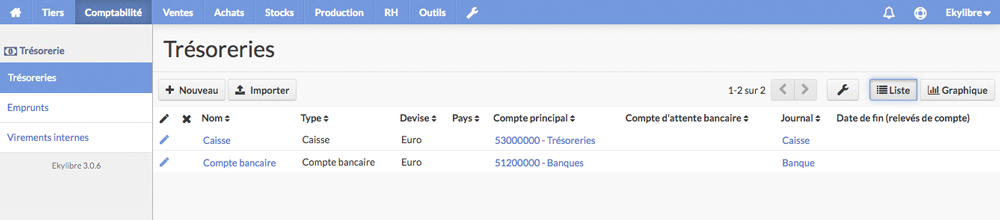
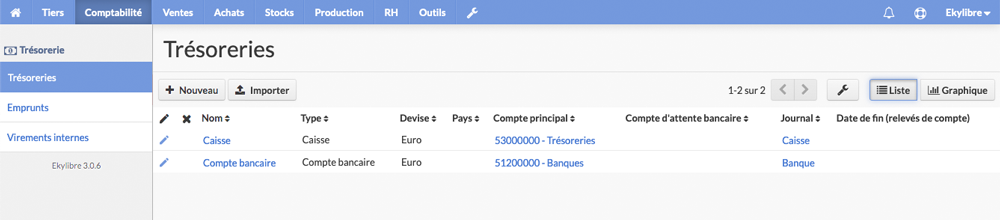
Trésorerie (upd) + nouveau PDF

diff --git a/content/fr/chapitre5.html b/content/fr/chapitre5.html
@@ -1808,10 +1808,15 @@
       </div>
       <div class="process-txt">
          <span class="titre-advice">Créez un compte bancaire</span>
-         <p>Cliquez sur le bouton “Nouveau”, puis sélectionnez le "Type" de trésorerie et remplissez tous les champs obligatoires signalés par une astérisque de couleur rouge avec les informations requises pour la définir correctement. Vous pouvez également partir du “Compte bancaire” déjà défini dans l'application et le modifier en cliquant sur le crayon<img src="../images/commun/crayon.svg" alt="Crayon modification" height="20" class="align-icone icone-marge-gauche icone-marge-droite">à gauche de son intitulé dans la liste des trésoreries.</p>
+		 <p>Cliquez sur le bouton “Nouveau”, puis sélectionnez le "Type" de trésorerie.</p>
+		 <p class="max-img-process">
+            <img src="../images/chapitre5/tresorerie2.png" class="contour-img" alt="Nouvelle trésorerie" data-action="zoom" />
+         </p>
+		 <p>Vérifiez que le bouton radio<img src="../images/commun/radio.svg" alt="Bouton radio" height="20" class="align-icone icone-marge-gauche icone-marge-droite">est bien activé à gauche de "Compte bancaire".</p>
+		 <p>Remplissez tous les champs obligatoires signalés par une astérisque de couleur rouge avec les informations requises pour la définir correctement.<br />Vous pouvez également partir du “Compte bancaire” déjà défini par défaut dans l'application et le modifier en cliquant sur le crayon<img src="../images/commun/crayon.svg" alt="Crayon modification" height="20" class="align-icone icone-marge-gauche icone-marge-droite">à gauche de son intitulé dans la liste des trésoreries.</p>
          <p>Renseignez les informations pour l'enregistrement des écritures comptables.</p>
          <p class="max-img-process">
-            <img src="../images/chapitre5/tresorerie2.png" class="contour-img" alt="Nouvelle trésorerie" data-action="zoom" />
+            <img src="../images/chapitre5/tresorerie3.png" class="contour-img" alt="Nouvelle trésorerie" data-action="zoom" />
          </p>
          <p>Cliquez sur <span class="btn-blue">Créer</span> pour valider l'opération.</p>
       </div>
@@ -1858,7 +1863,7 @@
       </div>
       <div class="process-txt">
          <span class="titre-advice">Prérequis&nbsp;: paramétrage d'un journal des opérations diverses</span>
-         <p>Créez un nouveau journal des opérations diverses comme expliqué dans la section <a href="#journaux" class="avoid-clicks">«&nbsp;Journaux&nbsp;»</a> de ce chapitre. Toutes les écritures liées à des opérations comme par exemple des virements seront consignées dans le brouillard de ce journal comptable.</p>
+         <p>Créez un nouveau journal des opérations diverses comme expliqué dans la section <a href="#journaux" class="avoid-clicks">«&nbsp;Journaux&nbsp;»</a> de ce chapitre. Toutes les écritures liées à des opérations comme par exemple des versements de dividendes ou des rémunérations seront consignées dans le brouillard de ce journal comptable.</p>
          <p>Vérifiez que le bouton radio<img src="../images/commun/radio.svg" alt="Bouton radio" height="20" class="align-icone icone-marge-gauche icone-marge-droite">est bien activé pour "Opérations diverses".</p>
          <p class="max-img-process">
             <img src="../images/chapitre5/associe4.png" class="contour-img" alt="Nouveau journal" data-action="zoom" />

diff --git a/content/fr/demarrage.html b/content/fr/demarrage.html
@@ -14,7 +14,7 @@
       <h3 align="center" class="texte"><img class="logo" src="../images/commun/logo-ekylibre.svg" alt="Ekylibre" width="300"><br />Logiciel de gestion d'exploitation agricole</h3>
       <p align="center" class="aerateur-haut aerateur-bas"><img src="../images/accueil/introduction.png" alt="Gestion d'exploitation agricole" class="loading"></p>
       <h1 align="center" class="texte majuscule aerateur">Guide de prise en main</h1>
-      <p class="texte">Ce guide a pour but d'aider le nouvel utilisateur à configurer rapidement et correctement l'application pour son exploitation agricole et de commencer à l'utiliser. Ce guide a été mis à jour le 7 mai 2020. La version au format PDF est datée du 4 mai 2020.</p>
+      <p class="texte">Ce guide a pour but d'aider le nouvel utilisateur à configurer rapidement et correctement l'application pour son exploitation agricole et de commencer à l'utiliser. Ce guide a été mis à jour le 7 mai 2020. La version au format PDF est datée du 7 mai 2020.</p>
       <div class="pdf">
          <p class="texte">Pour naviguer entre les différents chapitres, utilisez le menu symbolisé par l'icône<img src="../images/accueil/navicon.svg" alt="Menu" height="20" class="align-icone icone-marge-gauche icone-marge-droite">en haut à gauche des pages. Des liens sont également disponibles dans l'en-tête des pages &#40;uniquement sur les écrans dont la résolution est de 768 pixels minimum&#41; ainsi qu'à la fin de chaque chapitre.</p>
          <p class="texte">Le fil d'ariane situé en haut de la page affiche le nom de la section de la documentation que vous êtes en train de lire pour mieux vous repérez dans un chapitre &#40;uniquement sur les écrans dont la résolution est de 768 pixels minimum&#41;.</p>
